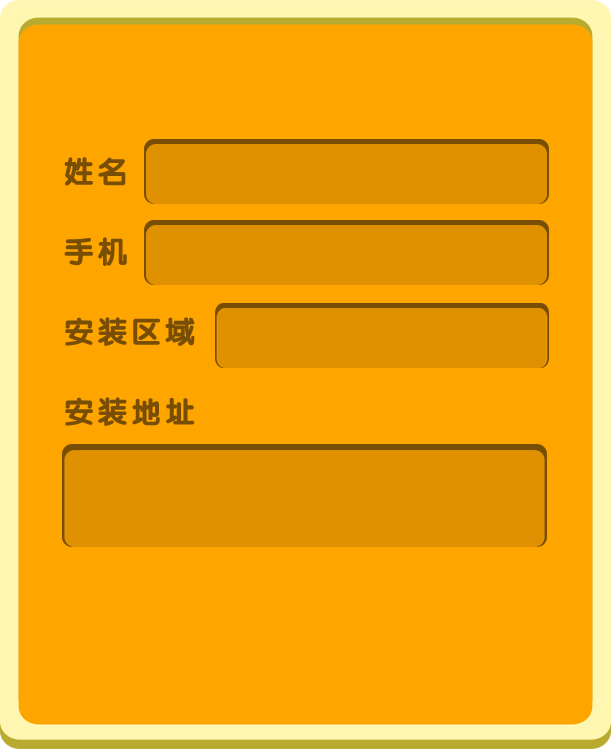
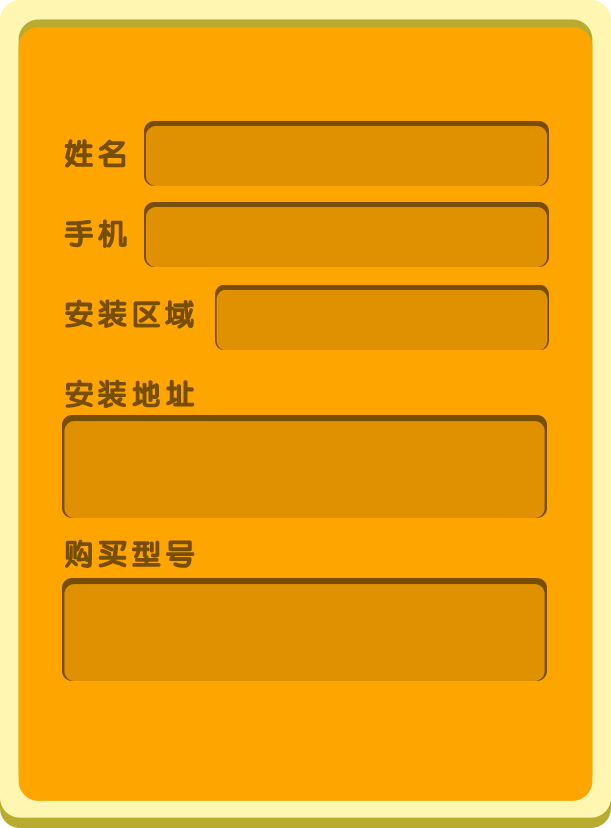
1791811

diff --git a/css/person.css b/css/person.css
@@ -209,29 +209,32 @@ img{
 	width: 63.5%;
 	border: 0;
 	height: 7.5%;
-	top: 19.2%;
+	top: 14.7%;
 	left: 25%;
 	font-size: 16px;
 	color: white;
 }
 .install ul li:nth-child(2) input{
-	top: 30%;
+	top: 24.5%;
 }
 .install ul li:nth-child(3) input{
 	left: 36.5%;
 	width: 52%;
-	top: 41%;
+	top: 34.6%;
 }
-.install ul li:nth-child(4) textarea{
+.install ul li textarea{
 	position: absolute;
 	width: 77%;
 	border: 0;
-	height: 12%;
-	top: 60.2%;
+	height: 10%;
+	top: 51.5%;
 	left: 11.4%;
 	font-size: 16px;
 	background-color: rgba(0,0,0,0);
 	color: white;
+}
+.install ul li:nth-child(5) textarea{
+	top: 71.3%;
 }
 .install ul li input::-moz-placeholder{
 	color: #774e04;
@@ -257,11 +260,11 @@ img{
 	color: #774e04;
 	font-weight: bold;
 }
-.install ul li:nth-child(5)>a>img{
+.install ul li:nth-child(6)>a>img{
 	position: absolute;
 	width: 41.36%;
 	left: 29.32%;
-	bottom: 10%;
+	bottom: 5.5%;
 }
 /*个人信息*/
 #set{

diff --git a/person.html b/person.html
@@ -83,7 +83,7 @@
 			</div>
 		</div>
 		<!--安装地址-->
-		<div class="box" id="box3" style="display: none;">
+		<div class="box" id="box3">
 			<div id="install" >
 				<div class="install" >
 					<img src="img/installBkg.png" />
@@ -101,6 +101,9 @@
 						</li>
 						<li>
 							<textarea placeholder="请输详细街道地址" name="addres"></textarea>
+						</li>
+						<li>
+							<textarea placeholder="请输购买的型号" name="type"></textarea>
 						</li>
 						<li>
 							<a href="###" style="display: block;" ><img src="img/submit.png" id="installSubmit" /></a>
